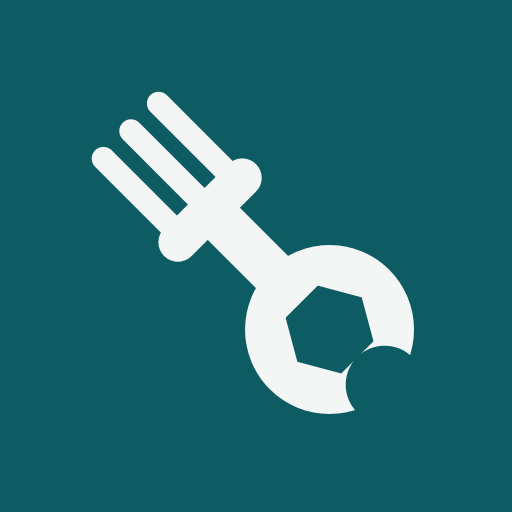
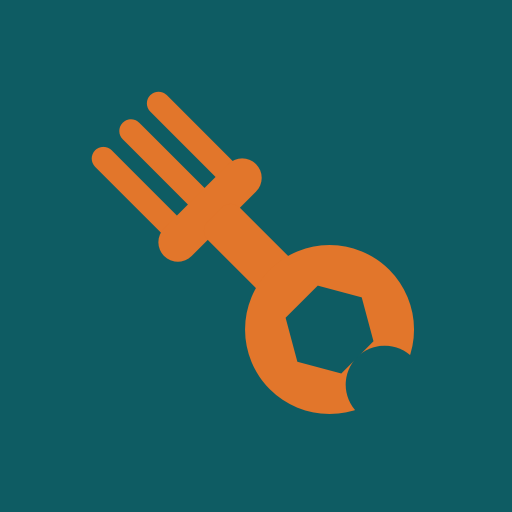
Обновить веб-предпросмотр: иконка приложения — оранжевый рисунок

Changed region(s): [[0.1562, 0.1562, 0.8125, 0.8125]]

diff --git a/flutter_bootstrap.js b/flutter_bootstrap.js
@@ -37,6 +37,6 @@ _flutter.buildConfig = {"engineRevision":"5a2a6a42cce67f965cf540fcecf616faca624a
 
 _flutter.loader.load({
   serviceWorkerSettings: {
-    serviceWorkerVersion: "2434347212" /* Flutter's service worker is deprecated and will be removed in a future Flutter release. */
+    serviceWorkerVersion: "196246220" /* Flutter's service worker is deprecated and will be removed in a future Flutter release. */
   }
 });
